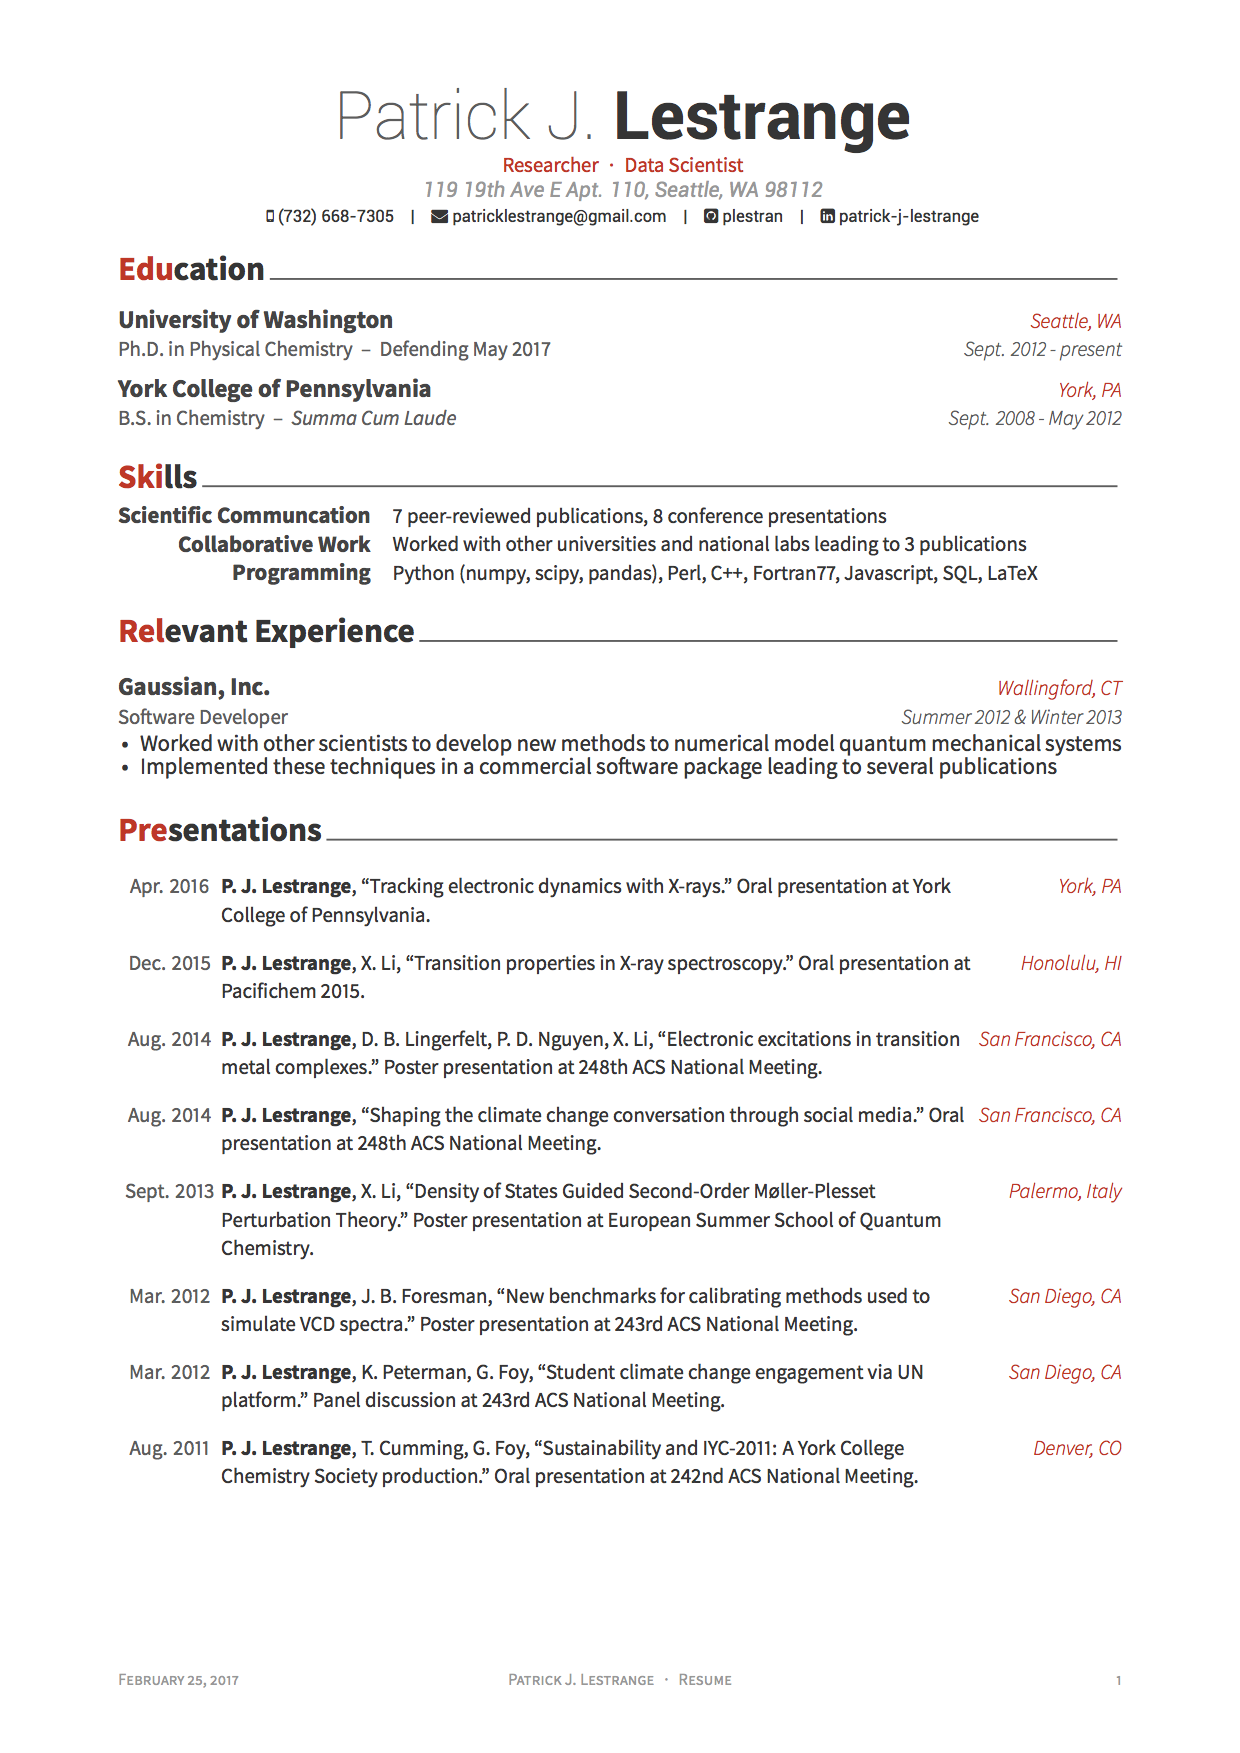
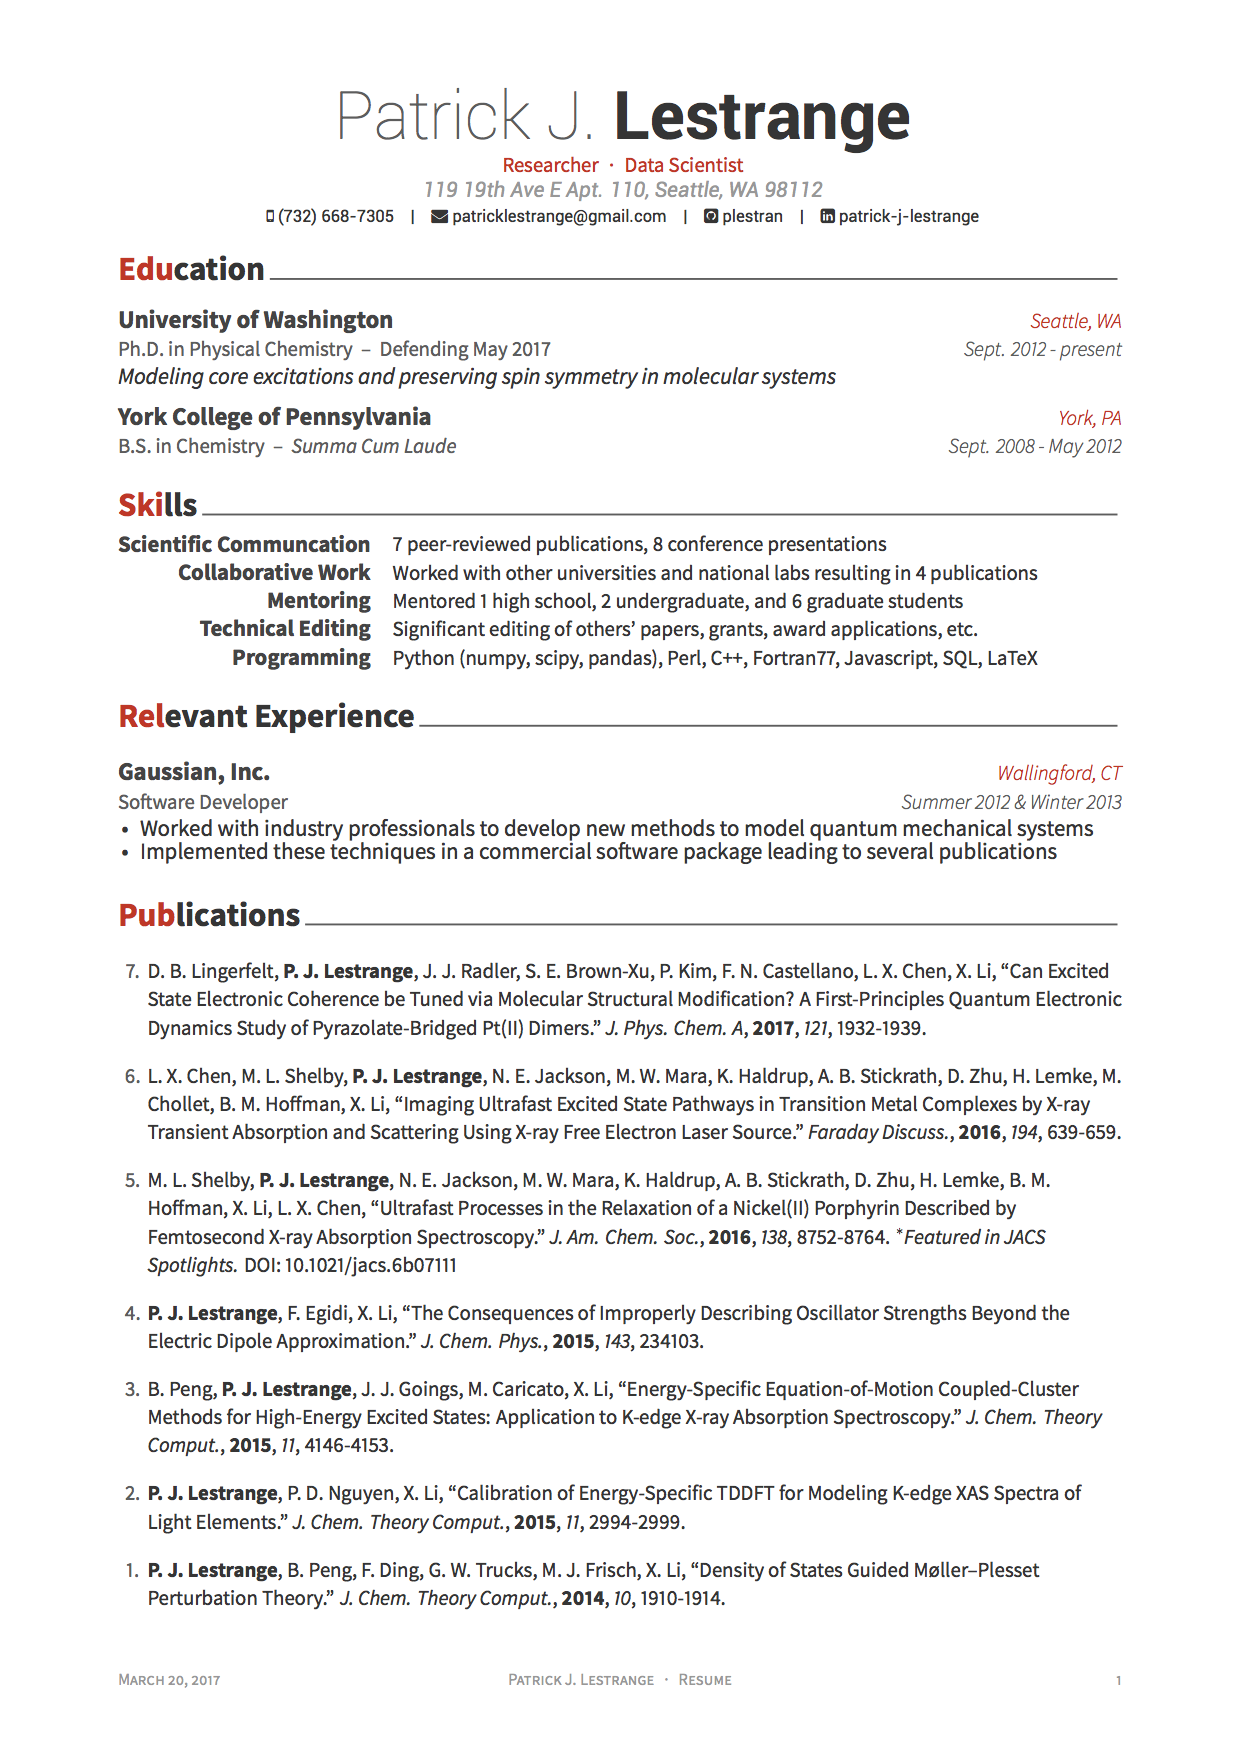
updated Publications list on my resume example

Changed region(s): [[0.0919, 0.1848, 0.9194, 0.9241], [0.0919, 0.9549, 0.1839, 0.9857]]

diff --git a/examples/resume-sections/publications.tex b/examples/resume-sections/publications.tex
@@ -10,15 +10,15 @@
 
 \begin{cvpublications}
 
-\cvpublication
-{8.} 
-{\textbf{P. J. Lestrange}, D. B. Williams-Young, C. A. Jim\'enex-Hoyos, G. E. Scuseria, X. Li, ``Improving the Efficiency of Variation After Projection Hartree-Fock." \textbf{2017}, \textit{In preparation for submission to J. Chem. Theory Comput.}} 
+%\cvpublication
+%{8.} 
+%{\textbf{P. J. Lestrange}, D. B. Williams-Young, C. A. Jim\'enex-Hoyos, G. E. Scuseria, X. Li, ``Improving the Efficiency of Variation After Projection Hartree-Fock." \textit{In preparation for submission to J. Chem. Theory Comput.}} 
 
 %------------------------------------------------
 
 \cvpublication
 {7.} 
-{D. B. Lingerfelt, \textbf{P. J. Lestrange}, J. J. Radler, S. E. Brown-Xu, P. Kim, F. N. Castellano, L. X. Chen, X. Li, \href{http://pubs.acs.org/doi/abs/10.1021/acs.jpca.6b12099}{``Can Excited State Electronic Coherence be Tuned via Molecular Structural Modification? A First-Principles Quantum Electronic Dynamics Study of Pyrazolate-Bridged Pt(II) Dimers."} \textit{J. Phys. Chem. A}, \textbf{2017}, \textit{Just Accepted Manuscript}.} 
+{D. B. Lingerfelt, \textbf{P. J. Lestrange}, J. J. Radler, S. E. Brown-Xu, P. Kim, F. N. Castellano, L. X. Chen, X. Li, \href{http://pubs.acs.org/doi/abs/10.1021/acs.jpca.6b12099}{``Can Excited State Electronic Coherence be Tuned via Molecular Structural Modification? A First-Principles Quantum Electronic Dynamics Study of Pyrazolate-Bridged Pt(II) Dimers."} \textit{J. Phys. Chem. A}, \textbf{2017}, \textit{121}, 1932-1939.} 
 
 %------------------------------------------------
 

diff --git a/examples/resume-sections/presentations.tex b/examples/resume-sections/presentations.tex
@@ -34,14 +34,14 @@
 %------------------------------------------------
 
 \cvpresentation
-{\textbf{P. J. Lestrange}, ``Shaping the climate change conversation through social media." Oral presentation at 248th ACS National Meeting.} % Presentation
+{\textbf{P. J. Lestrange}, ``Shaping the climate change conversation through social media." \newline Oral presentation at 248th ACS National Meeting.} % Presentation
 {San Francisco, CA} % Location
 {Aug. 2014} % Date(s)
 
 %------------------------------------------------
 
 \cvpresentation
-{\textbf{P. J. Lestrange}, X. Li, ``Density of States Guided Second-Order M{\o}ller-Plesset Perturbation Theory." Poster presentation at European Summer School of Quantum Chemistry.} % Presentation
+{\textbf{P. J. Lestrange}, X. Li, ``Density of States Guided Second-Order M{\o}ller-Plesset Perturbation Theory." Poster at European Summer School of Quantum Chemistry.} % Presentation
 {Palermo, Italy} % Location
 {Sept. 2013} % Date(s)
 

diff --git a/examples/resume-sections/skills.tex b/examples/resume-sections/skills.tex
@@ -21,12 +21,26 @@
 
 \cvskill
 {Collaborative Work} % Category
-{Worked with other universities and national labs leading to 3 publications} % Skills
+{Worked with other universities and national labs resulting in 4 publications} % Skills
+
+%------------------------------------------------
+
+\cvskill
+{Mentoring} % Category
+{Mentored 1 high school, 2 undergraduate, and 6 graduate students} % Skills
+
+%------------------------------------------------
+
+\cvskill
+{Technical Editing} % Category
+{Significant editing of others' papers, grants, award applications, etc.} % Skills
 
 %------------------------------------------------
 
 \cvskill
 {Programming} % Category
 {Python (numpy, scipy, pandas), Perl, C++, Fortran77, Javascript, SQL, LaTeX} % Skills
+
+%------------------------------------------------
 
 \end{cvskills}

diff --git a/examples/resume-sections/experience.tex b/examples/resume-sections/experience.tex
@@ -20,7 +20,7 @@
 { % Description(s) of tasks/responsibilities
 %Worked closely with other scientists to develop new methods to numerical model quantum mechanical systems. These techniques were implemented in a commercial software package and resulted in several publications in peer-reviewed journals
 \begin{cvitems}
-\item {Worked with other scientists to develop new methods to numerical model quantum mechanical systems}
+\item {Worked with industry professionals to develop new methods to model quantum mechanical systems}
 \item{Implemented these techniques in a commercial software package leading to several publications}
 \end{cvitems}
 }

diff --git a/examples/resume.tex b/examples/resume.tex
@@ -78,9 +78,9 @@
 \input{resume-sections/education.tex}
 \input{resume-sections/skills.tex}
 \input{resume-sections/experience.tex}
-\input{resume-sections/presentations.tex}
-\newpage
 \input{resume-sections/publications.tex}
+%\newpage
+\input{resume-sections/presentations.tex}
 \input{resume-sections/honors.tex}
 \input{resume-sections/affiliations.tex}
  

diff --git a/examples/resume-sections/education.tex b/examples/resume-sections/education.tex
@@ -17,7 +17,7 @@
 {University of Washington} % Institution
 {Seattle, WA} % Location
 {Sept. 2012 - present} % Date(s)
-{}
+{\textit{Modeling core excitations and preserving spin symmetry in molecular systems}}
 % Description(s) bullet points
 %\begin{cvitems}
 %\item{Derived new methods to model high energy and nonlinear spectroscopic techniques}

diff --git a/README.md b/README.md
@@ -40,7 +40,7 @@
 
 #### Résumé
 
-You can see [PDF](https://raw.githubusercontent.com/plestran/resume-template/master/examples/resume.pdf)
+You can also grab the [PDF](https://raw.githubusercontent.com/plestran/resume-template/master/examples/resume.pdf)
 
 | Page. 1 | Page. 2 |
 |:---:|:---:|
